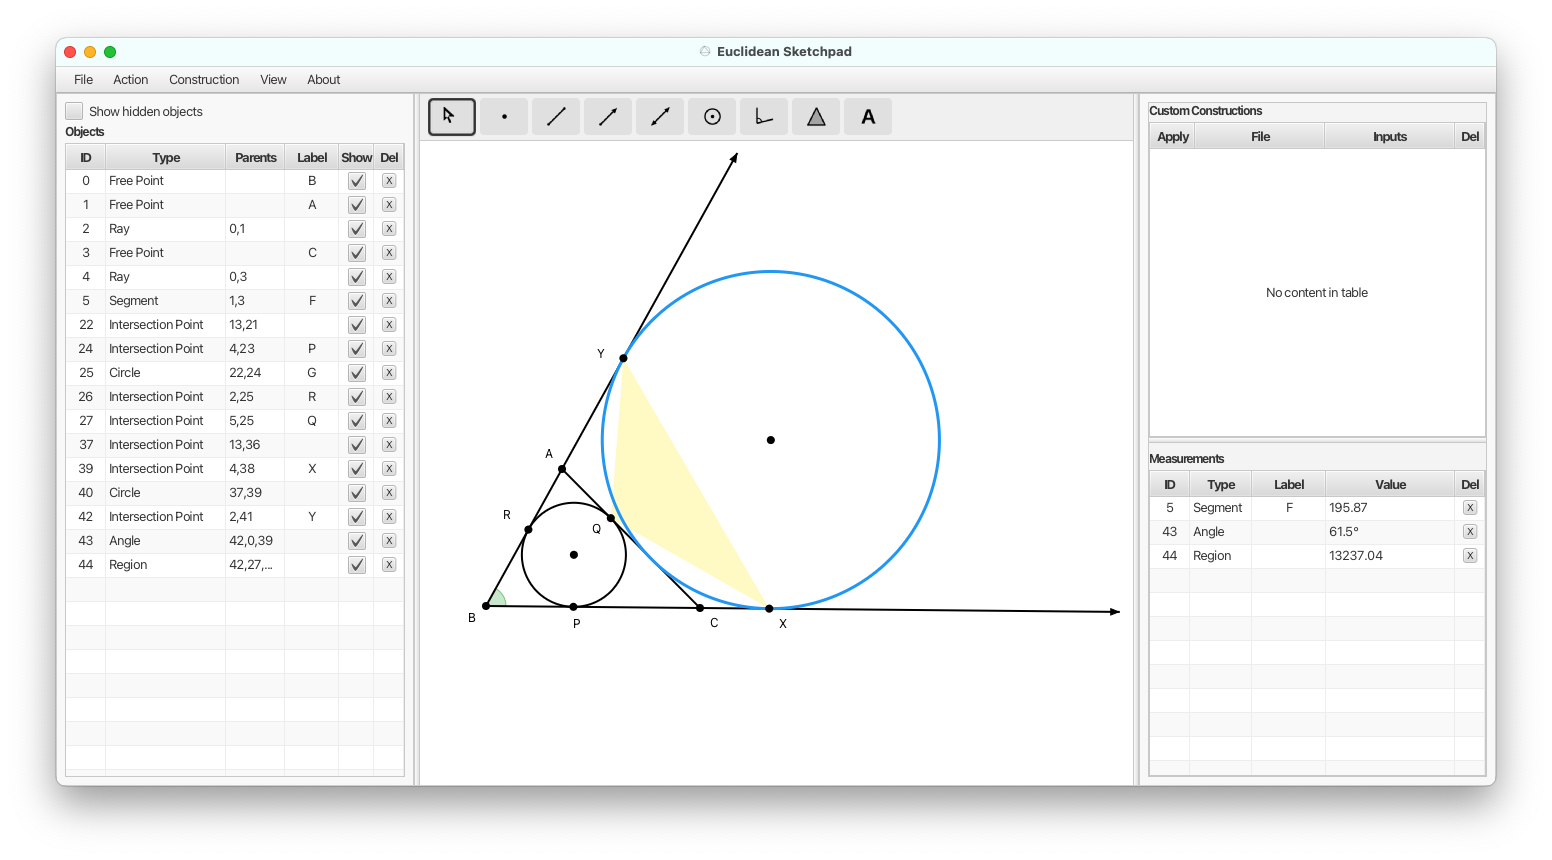
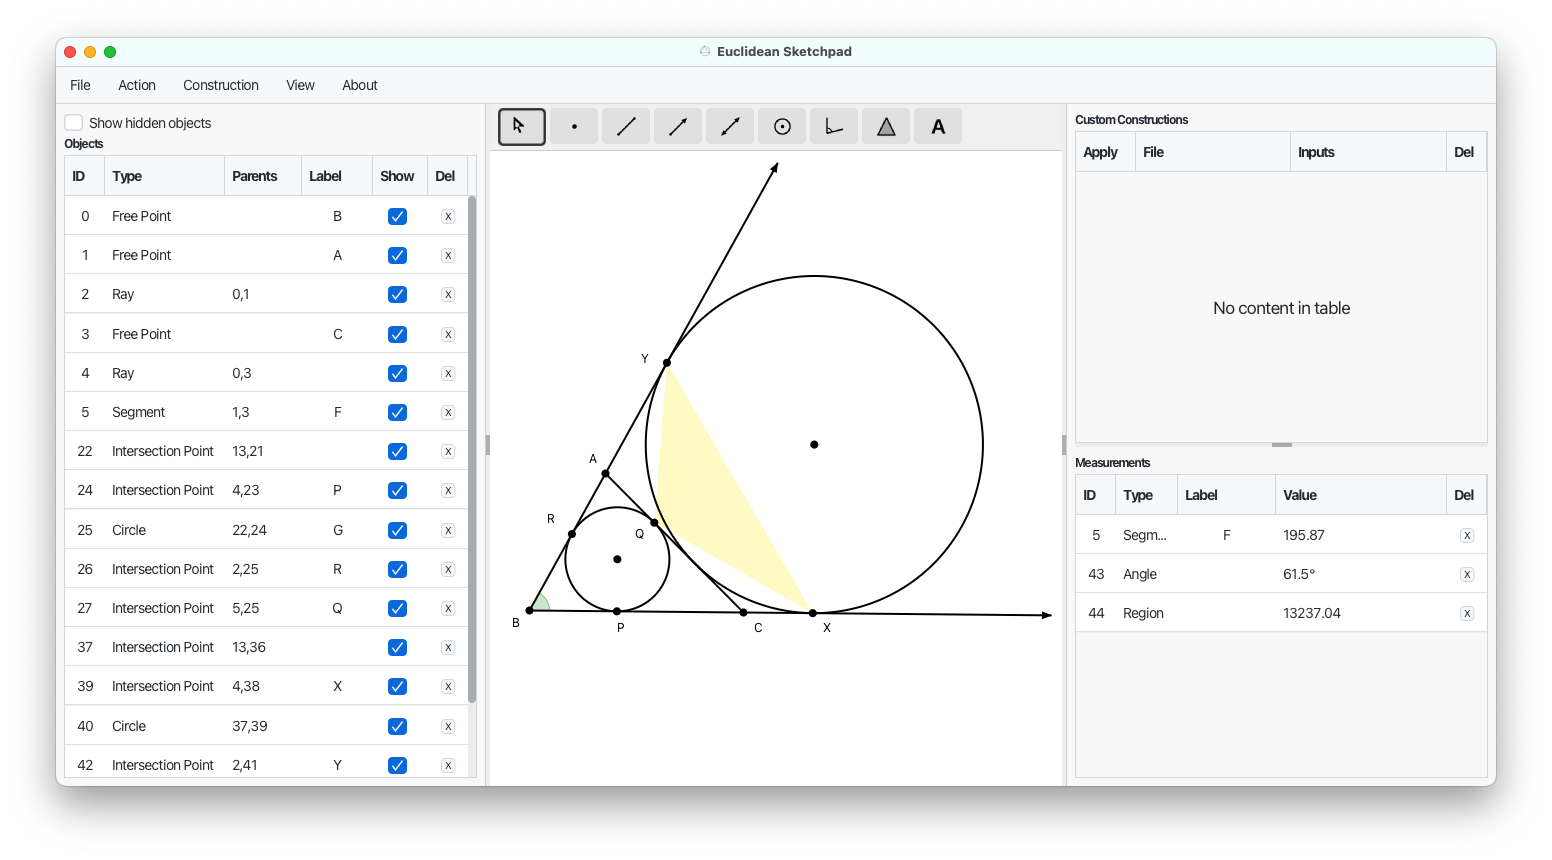
Release v1.3.0

diff --git a/src/main/kotlin/euclideansketchpad/ui/Sidebar.kt b/src/main/kotlin/euclideansketchpad/ui/Sidebar.kt
@@ -186,8 +186,8 @@ class Sidebar(
                 }
             }
         }
-        visCol.minWidth = 35.0
-        visCol.maxWidth = 35.0
+        visCol.minWidth = 55.0
+        visCol.maxWidth = 55.0
 
         val deleteCol = TableColumn<ObjectRow, Void>("Del")
         deleteCol.setCellFactory {
@@ -222,8 +222,8 @@ class Sidebar(
                 }
             }
         }
-        deleteCol.minWidth = 30.0
-        deleteCol.maxWidth = 30.0
+        deleteCol.minWidth = 40.0
+        deleteCol.maxWidth = 40.0
 
         objectTable.columns.addAll(idCol, typeCol, parentCol, labelCol, visCol, deleteCol)
 
@@ -280,8 +280,8 @@ class Sidebar(
                 }
             }
         }
-        deleteCol.minWidth = 30.0
-        deleteCol.maxWidth = 30.0
+        deleteCol.minWidth = 40.0
+        deleteCol.maxWidth = 40.0
 
         measurementTable.columnResizePolicy = TableView.CONSTRAINED_RESIZE_POLICY
         measurementTable.columns.addAll(idCol, typeCol, labelCol, measureCol, deleteCol)
@@ -309,8 +309,8 @@ class Sidebar(
                 }
             }
         }
-        applyCol.minWidth = 45.0
-        applyCol.maxWidth = 45.0
+        applyCol.minWidth = 60.0
+        applyCol.maxWidth = 60.0
 
         val fileCol = TableColumn<ConstructionRow, String>("File")
         fileCol.setCellValueFactory { SimpleStringProperty(it.value.construction.fileName) }
@@ -338,8 +338,8 @@ class Sidebar(
                 }
             }
         }
-        removeCol.minWidth = 30.0
-        removeCol.maxWidth = 30.0
+        removeCol.minWidth = 40.0
+        removeCol.maxWidth = 40.0
 
         constructionTable.columns.addAll(applyCol, fileCol, inputsCol, removeCol)
     }

diff --git a/src/main/kotlin/euclideansketchpad/ui/SketchpadApp.kt b/src/main/kotlin/euclideansketchpad/ui/SketchpadApp.kt
@@ -24,11 +24,14 @@ import javafx.scene.layout.VBox
 import javafx.stage.DirectoryChooser
 import javafx.stage.FileChooser
 import javafx.stage.Stage
+import atlantafx.base.theme.PrimerLight
 import java.io.File
 
 class SketchpadApp : Application() {
 
     override fun start(stage: Stage) {
+        Application.setUserAgentStylesheet(PrimerLight().userAgentStylesheet)
+
         val manager = GeometricObjectManager()
         val undoManager = UndoManager(manager)
         val recorder = ConstructionRecorder(manager)
@@ -651,7 +654,7 @@ class SketchpadApp : Application() {
         val mainSplit = SplitPane()
         mainSplit.orientation = javafx.geometry.Orientation.HORIZONTAL
         mainSplit.items.addAll(sidebar.leftPane, centerColumn, sidebar.rightPane)
-        mainSplit.setDividerPositions(0.25, 0.75)
+        mainSplit.setDividerPositions(0.30, 0.70)
 
         val root = BorderPane()
         root.top = menuBar

diff --git a/src/main/kotlin/euclideansketchpad/Main.kt b/src/main/kotlin/euclideansketchpad/Main.kt
@@ -3,7 +3,7 @@ package euclideansketchpad
 import javafx.application.Application
 import euclideansketchpad.ui.SketchpadApp
 
-const val APP_VERSION = "1.2.1"
+const val APP_VERSION = "1.3.0"
 
 fun main() {
     Application.launch(SketchpadApp::class.java)

diff --git a/handoff/HANDOFF.md b/handoff/HANDOFF.md
@@ -8,7 +8,7 @@
 - **Build:** `./gradlew clean test` passes (136 tests). Clean build.
 - **Git:** `.claude/` is gitignored.
 - **Runtime:** `./gradlew run` launches the full app.
-- **Packaging:** `./gradlew jpackage` produces `build/jpackage/EuclideanSketchpad-1.2.1.dmg` (~35 MB). `./gradlew jpackageImage` builds just the `.app` (faster, for testing). Not code-signed.
+- **Packaging:** `./gradlew jpackage` produces `build/jpackage/EuclideanSketchpad-1.3.0.dmg` (~35 MB). `./gradlew jpackageImage` builds just the `.app` (faster, for testing). Not code-signed.
 - **Spec alignment:** All features described in `spec/SPEC.md` are implemented, including the `LinearLike` interface, 4 built-in constructions, specific type display names, "Custom Constructions" table rename, and viewport clipping for all object types.
 
 ## Architecture Notes
@@ -21,7 +21,8 @@
 - **`ReflectionPoint` reflects across the infinite line** defined by a `LinearLike` parent's direction, regardless of whether the parent is a Line, Ray, or Segment.
 - **Construction preview uses a dedicated scene graph group.** `constructionPreviewGroup` is a sibling of `previewGroup` in `worldGroup` (not nested inside it), so tool previews (segment/circle ghosts) and construction previews don't interfere. `ConstructionApplicator.computePreview()` creates temporary objects with negative IDs to avoid collision with the real object map. `startApplyMode()` accepts an optional `previewProvider` callback; preview appears only on last-input hover.
 - **Selection state is centralized via helpers.** Selection lives in three places: `selectionTool.selectedIds`, `canvasPane.selectedIds`, and `sidebar`. `SketchpadApp` provides `clearSelection()` and `setSelection(ids)` local functions that sync all three. All call sites use these helpers. `requestRender()` also syncs from `selectionTool` → canvas/sidebar (idempotent).
-- **Window size and pane ratios differ from spec.** Window is 1440×720 (spec says 1280×720) and dividers are 25%/50%/25% (spec says ~22%/56%/22%) so the left pane's object table columns (Parents, Label) are all visible at startup.
+- **AtlantaFX Primer Light theme.** Applied via `Application.setUserAgentStylesheet(PrimerLight().userAgentStylesheet)` at the top of `start()`, before any UI construction. The theme styles all standard JavaFX controls (menus, dialogs, tables, buttons). Programmatic colors and `geometry.css` structural styles are unaffected — scene stylesheets override the user agent stylesheet.
+- **Window size and pane ratios.** Window is 1440×720 and dividers are 30%/40%/30% to accommodate the theme's wider cell padding.
 - **Label hit-box accounts for scaleY=-1 visual shift.** The renderer uses `text.scaleY = -1.0` to un-mirror labels in the y-flipped world group. JavaFX pivots this around the layout-bounds center, shifting the visual text ~7px below the computed baseline. `LabelTool.hitTestLabel()` extends its hit box downward (`labelY - 10` to `labelY + 18`) to match the actual visual position.
 - **`APP_VERSION` is the single source of truth for the version string.** Defined as a top-level `const val` in `Main.kt`. Referenced by `DiagramSerializer`, `ConstructionSerializer`, and the About dialog.
 - **Diagram open validates before resetting.** `SketchpadApp` parses and validates the file's version before calling `resetDiagram()`, so a version mismatch doesn't destroy the user's current work. The entire open operation is wrapped in a try-catch that shows an error alert.

diff --git a/spec/SPEC.md b/spec/SPEC.md
@@ -15,6 +15,7 @@ A desktop application for creating geometric constructions using compass and str
 | Testing | JUnit 5 (geometry library unit tests only) |
 | Serialization | kotlinx.serialization (JSON) |
 | Distribution | `jpackage` for native installer; also runnable via `./gradlew run` |
+| UI theme | AtlantaFX Primer Light (user agent stylesheet) |
 | Input | Desktop only (mouse), no touch support |
 
 ---
@@ -169,7 +170,7 @@ Multi-click pattern:
 
 ### 4.1 Overall Layout
 
-Three-column layout. Initial window size: **1440x720**. Initial divider positions: **25% / 75%** (left edge at 25%, right edge at 75%).
+Three-column layout. Initial window size: **1440x720**. Initial divider positions: **30% / 70%** (left edge at 30%, right edge at 70%).
 
 ```
 +------------------+-------------------------------------------+------------------+
@@ -197,8 +198,8 @@ Three-column layout. Initial window size: **1440x720**. Initial divider position
 | Type | 120px fixed | Display type name |
 | Parents | flex | Comma-separated parent IDs |
 | Label | flex | Editable inline (double-click); commit triggers undo checkpoint |
-| Show | 35px fixed | Checkbox to toggle visibility. Lock icon during recording. |
-| Del | 30px fixed | "X" button to delete (with confirmation dialog). Lock icon during recording. |
+| Show | 55px fixed | Checkbox to toggle visibility. Lock icon during recording. |
+| Del | 40px fixed | "X" button to delete (with confirmation dialog). Lock icon during recording. |
 
 **Type display names** (exhaustive — matches `Sidebar.getTypeName()`):
 
@@ -235,7 +236,7 @@ Three-column layout. Initial window size: **1440x720**. Initial divider position
 | Type | 62px fixed | Display type name |
 | Label | flex | Object label |
 | Value | flex | Formatted measurement value |
-| Del | 30px fixed | "X" button to remove from table (does not delete object) |
+| Del | 40px fixed | "X" button to remove from table (does not delete object) |
 
 **Measurable types**: Segment (length, `"%.2f"`), Circle (circumference, `"%.2f"`), Angle (degrees, `"%.1f°"`), Region (area, `"%.2f"`).
 
@@ -245,10 +246,10 @@ Measurements update on every render (real-time during drag).
 
 | Column | Width | Description |
 |--------|-------|-------------|
-| Apply | 45px fixed | Button to start the apply flow |
+| Apply | 60px fixed | Button to start the apply flow |
 | File | flex | Construction filename (without `.json`) |
 | Inputs | flex | Comma-separated input type names |
-| Del | 30px fixed | "X" button to remove from table |
+| Del | 40px fixed | "X" button to remove from table |
 
 - Populated via Construction > Load Construction or Load from Folder.
 - Not persisted across sessions.

diff --git a/CHANGELOG.md b/CHANGELOG.md
@@ -4,6 +4,18 @@ All notable changes to this project will be documented in this file.
 
 The format is based on [Keep a Changelog](https://keepachangelog.com/), and this project adheres to [Semantic Versioning](https://semver.org/).
 
+## [1.3.0] - 2026-10-20
+
+### Added
+
+- AtlantaFX Primer Light theme applied as the global user agent stylesheet, replacing the default Modena look
+
+### Changed
+
+- Widened fixed-width table columns to accommodate theme padding: Objects table Show (35→55px) and Del (30→40px), Custom Constructions table Apply (45→60px) and Del (30→40px), Measurements table Del (30→40px)
+- Widened sidebar panes: initial divider positions changed from 25%/75% to 30%/70%
+- Updated application screenshot
+
 ## [1.2.1] - 2026-10-20
 
 ### Changed
